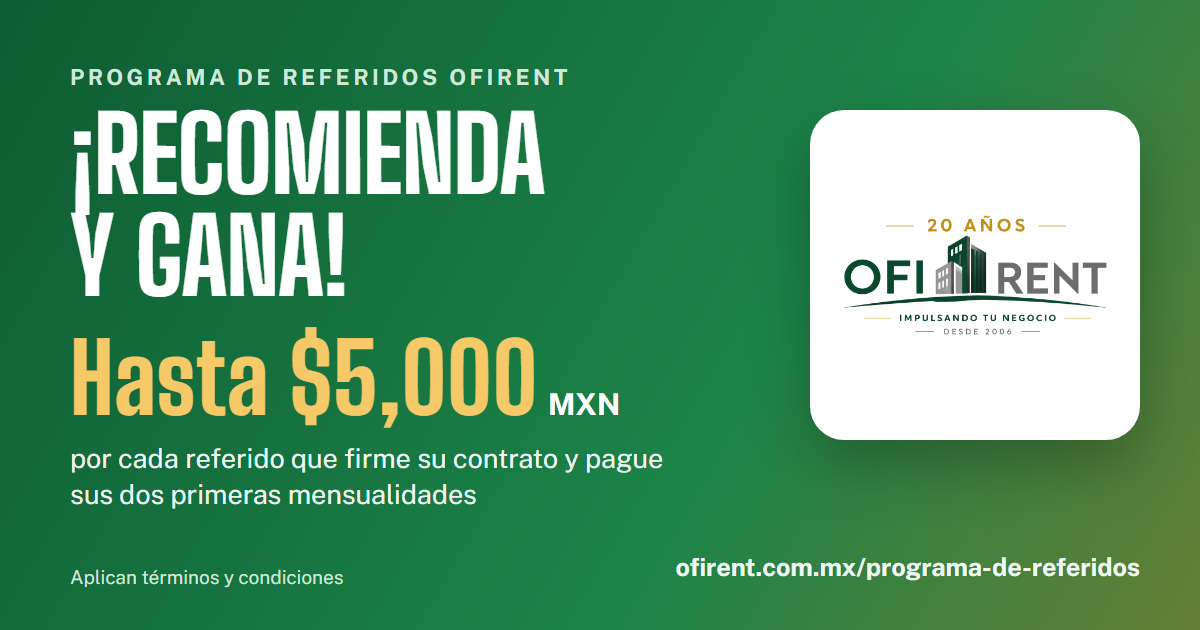
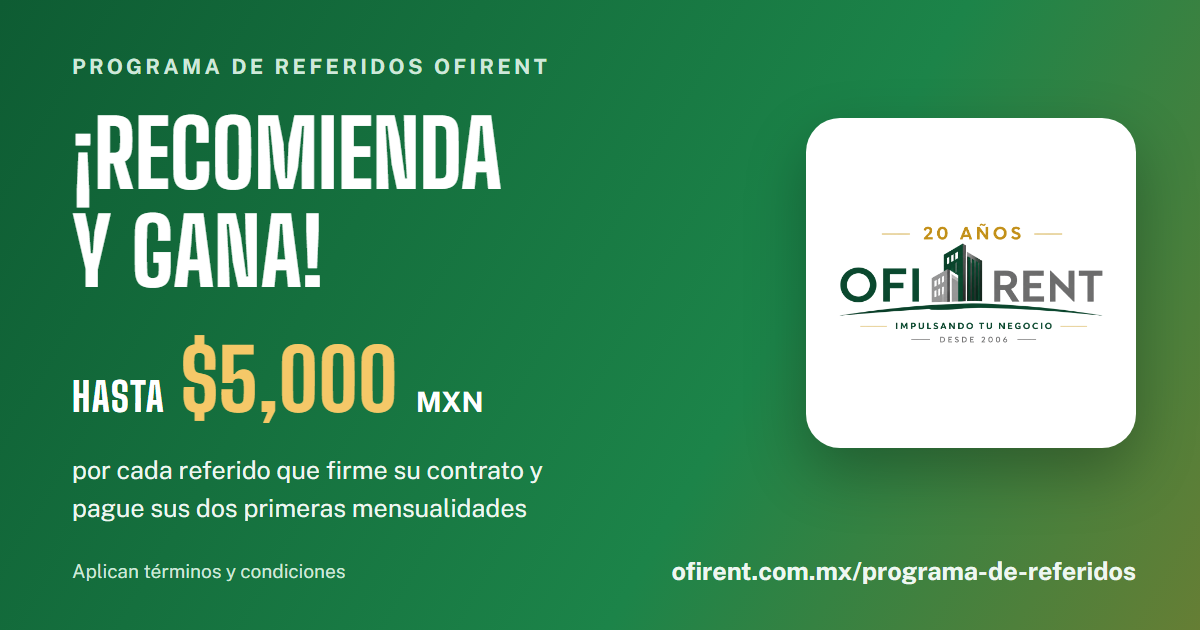
Referidos: brokers participan, varios servicios con tope, aviso de privacidad
- Terminos v1.1: corredores y brokers externos participan (siguen excluidos
  empleados, personal comercial, colaboradores y sus familiares directos);
  si el referido contrata mas de un servicio, el bono suma una mensualidad
  de cada uno con tope total de $5,000 (ejemplos con precios publicados).
- Pagina del programa: nota de varios servicios y de brokers.
- Aviso de privacidad: nueva seccion DECIMO CUARTO (programa de referidos:
  datos, finalidades, datos de la persona recomendada, encargados,
  conservacion); Cambios y Consentimiento pasan a DECIMO QUINTO y SEXTO;
  actualizacion 14 de octubre de 2026.
- Imagen para redes (og-referidos.png) con mas espacio entre bloques.
- CLAUDE.md: decisiones confirmadas (antes de IVA, 4 horas, 90 dias,
  brokers, varios servicios, aviso de privacidad).

diff --git a/ofirent-cdmx-site/aviso-de-privacidad/index.html b/ofirent-cdmx-site/aviso-de-privacidad/index.html
@@ -67,7 +67,7 @@
     <div class="legal-body">
       <p>Ofirent, con domicilio en calle Álvaro Obregón No. 270, casi esquina con Insurgentes, Colonia Condesa, C.P. 06140, Ciudad de México, y portal de internet <a href="https://www.ofirent.com.mx">www.ofirent.com.mx</a>, es responsable del tratamiento de los datos personales que sean recabados a través de dicho portal, formularios, medios electrónicos, comunicaciones y demás medios relacionados con la prestación de sus servicios.</p>
       <p>El presente Aviso de Privacidad se emite de conformidad con la Ley Federal de Protección de Datos Personales en Posesión de los Particulares vigente (la "LFPDPPP") y demás disposiciones aplicables en materia de protección de datos personales.</p>
-      <p>Ofirent reconoce la importancia de proteger la privacidad y los datos personales de sus clientes, prospectos, proveedores, colaboradores, representantes, usuarios del sitio web y demás personas con las que mantiene una relación comercial o jurídica. Por ello, el tratamiento de los datos personales se realizará de manera legítima, controlada e informada, atendiendo a los principios y deberes establecidos por la legislación aplicable.</p>
+      <p>Ofirent reconoce la importancia de proteger la privacidad y los datos personales de sus clientes, prospectos, proveedores, colaboradores, representantes, usuarios del sitio web, participantes del programa de referidos, personas recomendadas y demás personas con las que mantiene una relación comercial o jurídica. Por ello, el tratamiento de los datos personales se realizará de manera legítima, controlada e informada, atendiendo a los principios y deberes establecidos por la legislación aplicable.</p>
 
       <h2>PRIMERO. Datos personales sometidos a tratamiento</h2>
       <p>Para las finalidades descritas en el presente Aviso de Privacidad, Ofirent podrá recabar y tratar, de manera conjunta o separada, las siguientes categorías de datos personales, dependiendo de la naturaleza de la relación que mantenga con el titular:</p>
@@ -122,6 +122,7 @@
       <h2>CUARTO. Datos personales obtenidos de fuentes distintas al titular</h2>
       <p>Ofirent podrá obtener datos personales de personas que no sean clientes directos cuando dichos datos sean proporcionados por clientes, proveedores, representantes, socios comerciales, empresas relacionadas, autoridades o terceros vinculados con una operación o servicio.</p>
       <p>En estos casos, Ofirent tratará dichos datos exclusivamente para las finalidades relacionadas con la relación comercial, contractual, jurídica o profesional correspondiente y de conformidad con la legislación aplicable. Cuando resulte procedente, el presente Aviso de Privacidad estará disponible para dichos titulares a través de <a href="https://www.ofirent.com.mx">www.ofirent.com.mx</a>.</p>
+      <p>Esto incluye los datos de las personas que son recomendadas a Ofirent por un cliente o un tercero a través del programa de referidos, conforme a lo previsto en el apartado DÉCIMO CUARTO de este Aviso.</p>
 
       <h2>QUINTO. Ofirent como responsable y, en su caso, como encargado</h2>
       <p>Salvo que se establezca expresamente lo contrario en el contrato o documento correspondiente, Ofirent tratará los datos personales en su carácter de responsable.</p>
@@ -184,12 +185,42 @@
       <h2>DÉCIMO TERCERO. Autoridad competente</h2>
       <p>Si el titular considera que su derecho a la protección de sus datos personales ha sido vulnerado, podrá ejercer las acciones y presentar las denuncias o procedimientos que correspondan ante la autoridad competente en materia de protección de datos personales, de conformidad con la legislación vigente.</p>
 
-      <h2>DÉCIMO CUARTO. Cambios al Aviso de Privacidad</h2>
+      <h2>DÉCIMO CUARTO. Programa de referidos</h2>
+      <p>Ofirent opera un programa de referidos mediante el cual una persona (sea o no cliente) recomienda los servicios de Ofirent a otra persona o empresa y, si se cumplen las condiciones publicadas en los <a href="/programa-de-referidos/terminos/">términos y condiciones del programa</a>, recibe un bono. Este apartado aplica a quien participa recomendando y a la persona recomendada, y complementa el resto del presente Aviso.</p>
+
+      <h3>14.1 Datos que se recaban</h3>
+      <ul>
+        <li><strong>De quien recomienda:</strong> nombre y teléfono de contacto y, para pagar un bono, los datos bancarios y fiscales necesarios (por ejemplo, nombre o razón social, RFC, cuenta CLABE y constancia de situación fiscal o comprobante fiscal), que se solicitan al momento del pago.</li>
+        <li><strong>De la persona recomendada:</strong> nombre, teléfono y, cuando quien recomienda los proporciona, correo electrónico, empresa, tipo de espacio y zona de interés y comentarios.</li>
+        <li><strong>Datos técnicos de seguridad:</strong> una huella cifrada y no reversible de la conexión desde la que se envía el formulario, que sirve para limitar envíos abusivos. En el registro del programa no se conserva la dirección IP.</li>
+      </ul>
+
+      <h3>14.2 Finalidades</h3>
+      <ul>
+        <li>Registrar la recomendación, asignarle un folio y permitir su consulta de seguimiento.</li>
+        <li>Contactar a la persona recomendada para ofrecerle los servicios de Ofirent y verificar la recomendación.</li>
+        <li>Verificar que la recomendación cumple los términos del programa, incluida la revisión de registros duplicados, autorreferidos y personas que ya habían tenido contacto con Ofirent.</li>
+        <li>Calcular, aprobar y pagar el bono (por transferencia o como crédito), solicitar los comprobantes correspondientes y cumplir las obligaciones fiscales aplicables.</li>
+        <li>Aplicar el límite de recomendaciones por persona y otorgar los beneficios del programa, como la categoría de Embajador OfiRent.</li>
+        <li>Prevenir fraudes, registros simulados o acuerdos indebidos para obtener el bono.</li>
+      </ul>
+
+      <h3>14.3 Datos de la persona recomendada</h3>
+      <p>La persona recomendada no entrega sus datos directamente: los registra quien la recomienda, quien declara contar con su autorización para compartirlos con Ofirent. En el primer contacto, Ofirent le informará que fue recomendada y le dará a conocer este Aviso de Privacidad.</p>
+      <p>La persona recomendada puede pedir en cualquier momento que no se le contacte, o ejercer sus derechos de acceso, rectificación, cancelación y oposición, escribiendo a <a href="mailto:contacto@ofirent.com.mx">contacto@ofirent.com.mx</a>. Sus datos se usan para contactarla por la recomendación recibida y, salvo que se oponga, para las finalidades secundarias del apartado 3.2.</p>
+
+      <h3>14.4 Quién accede a los datos</h3>
+      <p>Tienen acceso al registro del programa el personal autorizado de Ofirent y los proveedores tecnológicos que lo operan como encargados: almacenamiento de registros, envío de correo electrónico y alojamiento del sitio (actualmente Airtable, Resend y Vercel), que pueden tratar datos en servidores ubicados fuera de México. Los datos no se comparten con otros participantes del programa: en la consulta de seguimiento, quien recomienda solo ve la etapa de su recomendación y el primer nombre de la persona recomendada.</p>
+
+      <h3>14.5 Conservación</h3>
+      <p>Los registros del programa se conservan mientras sea necesario para operarlo (incluida la verificación del límite de recomendaciones por periodo de 12 meses) y durante los plazos legales, fiscales y contables aplicables, conforme al apartado SÉPTIMO.</p>
+
+      <h2>DÉCIMO QUINTO. Cambios al Aviso de Privacidad</h2>
       <p>Ofirent podrá modificar o actualizar el presente Aviso de Privacidad cuando resulte necesario, incluyendo cambios derivados de modificaciones legales, regulatorias, operativas, comerciales o de las prácticas de privacidad de la Empresa.</p>
       <p>Las modificaciones serán comunicadas mediante su publicación en <a href="https://www.ofirent.com.mx">www.ofirent.com.mx</a> y/o mediante los medios de contacto disponibles para tal efecto.</p>
       <p>Se recomienda consultar periódicamente el presente Aviso de Privacidad para conocer cualquier actualización.</p>
 
-      <h2>DÉCIMO QUINTO. Consentimiento</h2>
+      <h2>DÉCIMO SEXTO. Consentimiento</h2>
       <p>Al proporcionar sus datos personales a Ofirent, utilizar el sitio web cuando corresponda, solicitar información, contratar servicios o establecer una relación comercial con la Empresa, el titular reconoce haber leído y comprendido el presente Aviso de Privacidad y, cuando sea legalmente necesario, manifiesta su consentimiento para el tratamiento de sus datos personales conforme a los términos aquí establecidos.</p>
       <p>Cuando se requiera consentimiento expreso para el tratamiento de datos personales sensibles o para determinadas transferencias o finalidades, Ofirent obtendrá dicho consentimiento mediante los mecanismos correspondientes.</p>
 
@@ -200,7 +231,7 @@
         <p><strong>Domicilio:</strong> Calle Álvaro Obregón No. 270, casi esquina con Insurgentes, Colonia Condesa, C.P. 06140, Ciudad de México.</p>
         <p><strong>Lugar de emisión:</strong> Ciudad de México</p>
         <p><strong>Fecha de emisión original:</strong> 15 de agosto de 2026</p>
-        <p style="margin-bottom:0;"><strong>Última actualización:</strong> 15 de agosto de 2026</p>
+        <p style="margin-bottom:0;"><strong>Última actualización:</strong> 14 de octubre de 2026</p>
       </div>
     </div>
   </div>

diff --git a/ofirent-cdmx-site/programa-de-referidos/terminos/index.html b/ofirent-cdmx-site/programa-de-referidos/terminos/index.html
@@ -61,13 +61,13 @@
     <a class="back-link" href="/programa-de-referidos/">← Programa de referidos</a>
     <div class="eyebrow">Programa de referidos</div>
     <h1 class="hero-title" style="font-size:clamp(28px,4vw,40px);">Términos y condiciones</h1>
-    <p class="tc-meta">Versión 1.0 · 14 de octubre de 2026</p>
+    <p class="tc-meta">Versión 1.1 · 14 de octubre de 2026</p>
 
     <div class="tc-box">
       <h2>En pocas palabras</h2>
       <ul>
         <li>Recomiendas a alguien que aún no es cliente de OfiRent y lo registras en este sitio.</li>
-        <li>Si esa persona firma su contrato y paga sus <strong>dos primeras mensualidades</strong>, recibes un bono igual a <strong>una mensualidad</strong> de lo que contrató, con tope de <strong>$5,000 MXN</strong>.</li>
+        <li>Si esa persona firma su contrato y paga sus <strong>dos primeras mensualidades</strong>, recibes un bono igual a <strong>una mensualidad</strong> de cada servicio que contrató, antes de IVA, con tope total de <strong>$5,000 MXN</strong>.</li>
         <li>Si ya eres cliente y eliges el bono como crédito en tu renta, recibes <strong>20% adicional</strong> (hasta $6,000 MXN).</li>
         <li>Máximo <strong>4 recomendaciones</strong> por persona. Con 2 recomendaciones cerradas eres <strong>Embajador OfiRent</strong>.</li>
         <li>Vigente del <strong>14 de octubre de 2026 al 14 de enero de 2027</strong>.</li>
@@ -86,7 +86,8 @@
     <p>El programa está vigente <strong>del 14 de octubre de 2026 al 14 de enero de 2027</strong>. Es un periodo de prueba: OfiRent lo evaluará cada mes y podrá extenderlo, ajustarlo o terminarlo. Cualquier cambio se publicará en esta página y <strong>no afectará a las recomendaciones registradas antes del cambio</strong>, que se rigen por los términos vigentes cuando se registraron.</p>
 
     <h2 class="tc-h">3. Quién puede participar</h2>
-    <p>Puede participar cualquier persona física mayor de 18 años, sea o no cliente de OfiRent. No pueden participar empleados, agentes comerciales ni colaboradores de OfiRent, ni sus familiares directos (cónyuge, padres, hijos y hermanos).</p>
+    <p>Puede participar cualquier persona física mayor de 18 años, sea o no cliente de OfiRent, incluidos los corredores inmobiliarios y brokers externos que no tengan relación laboral con OfiRent.</p>
+    <p>No pueden participar las personas que trabajan para OfiRent (empleados, personal comercial y colaboradores), ni sus familiares directos (cónyuge, padres, hijos y hermanos).</p>
 
     <h2 class="tc-h">4. Qué es una recomendación válida</h2>
     <p>Para que tu recomendación cuente, la persona o empresa que recomiendas (el "referido") debe cumplir todo lo siguiente:</p>
@@ -116,6 +117,8 @@
       </tbody>
     </table>
     <p>Los precios de lista pueden cambiar. Si tu referido contrata con descuento o promoción, el bono se calcula sobre la renta realmente pactada en su contrato.</p>
+    <p><strong>Si tu referido contrata más de un servicio</strong> (por ejemplo, una oficina virtual y un coworking), el bono es el equivalente a una mensualidad de cada servicio que contrató, sumadas, con un <strong>tope total de $5,000 MXN</strong> por referido. Cada servicio cuenta cuando se firma dentro de los 90 días naturales siguientes a tu registro y se pagan sus dos primeras mensualidades.</p>
+    <p>Por ejemplo: una oficina virtual de $1,299 y un coworking de $2,500 suman $3,799, y ese es tu bono. Una oficina virtual de $1,899 y una oficina privada de $6,500 suman $8,399, pero tu bono es de $5,000.</p>
 
     <h2 class="tc-h">8. Beneficio para clientes actuales</h2>
     <p>Si eres cliente activo de OfiRent (al corriente en tus pagos) y eliges recibir tu bono como <strong>crédito aplicado a tu renta o membresía</strong>, el crédito aumenta <strong>20%</strong>, hasta $6,000 MXN. Si prefieres transferencia, recibes el monto base. El crédito no es canjeable por efectivo.</p>

diff --git a/ofirent-cdmx-site/programa-de-referidos/index.html b/ofirent-cdmx-site/programa-de-referidos/index.html
@@ -185,7 +185,7 @@
           <tr><td>Oficina privada</td><td>hasta $5,000</td></tr>
         </tbody>
       </table>
-      <p class="oc-fine">Con precios de lista. El bono se calcula sobre la renta pactada en el contrato, antes de IVA.</p>
+      <p class="oc-fine">Con precios de lista. El bono se calcula sobre la renta pactada en el contrato, antes de IVA. Si tu referido contrata más de un servicio, se suma una mensualidad de cada uno, hasta $5,000 en total.</p>
     </aside>
   </div>
 </section>
@@ -232,7 +232,7 @@
       </div>
       <div class="ref-benefit">
         <h3>Si aún no eres cliente</h3>
-        <p>Recibe tu bono por <strong>transferencia bancaria</strong>. Solo necesitas registrar tu recomendación en esta página, no hace falta tener cuenta.</p>
+        <p>Recibe tu bono por <strong>transferencia bancaria</strong>. Solo necesitas registrar tu recomendación en esta página, no hace falta tener cuenta. Si eres corredor o broker externo, también puedes participar.</p>
       </div>
       <div class="ref-benefit feature">
         <h3>Embajador OfiRent</h3>

diff --git a/CLAUDE.md b/CLAUDE.md
@@ -14,7 +14,7 @@ Este repo se trabaja en paralelo desde más de una sesión de Claude Code (local
 ### Decisiones confirmadas con el cliente
 - Membresía Oro de coworking (incluye domicilio fiscal/comercial): contrato mínimo **6 meses**, no 1 año.
 - Teléfono/WhatsApp por marca (confirmado por el usuario, 2026-09-28): **OfiRent CDMX = 55 3200 9907**, **Torre Altius = 55 3148 5707**. No mezclar. Los posts del blog de OfiRent que hablan de Querétaro/Altius (19 posts con Querétaro, Jurica o Juriquilla en título o slug) llevan el número de Altius en el topbar y el pie; todos los demás posts y páginas llevan el de OfiRent. Los posts nuevos sobre Querétaro deben seguir la misma regla.
-- **Programa de referidos de OfiRent CDMX** (aprobado por la Dirección, 2026-10-14): el bono equivale a **una mensualidad de la renta pactada del referido (antes de IVA), con tope de $5,000 MXN**, y se entrega cuando el referido firma contrato y **paga sus dos primeras mensualidades**. En marketing se dice "hasta $5,000 MXN" y los términos aclaran que es un tope. **Vigencia: del 14 de octubre de 2026 al 14 de enero de 2027** (periodo de prueba, se evalúa cada mes); no hay un presupuesto en pesos, es lo que se genere en esos 3 meses. **Clientes actuales** que elijan el bono como crédito en su renta reciben **20% adicional** (hasta $6,000). **Embajador OfiRent**: por cada 2 recomendaciones cerradas, 4 horas de sala de juntas sin costo (las 4 horas y los 90 días de uso son propuesta mía, falta que la Dirección las confirme). **Quien verifica y paga cada bono: Nicolás Altamirano.** Páginas: `/programa-de-referidos/`, `/programa-de-referidos/terminos/` y `/programa-de-referidos/seguimiento/`. Cada recomendación se guarda en Airtable (tabla "Referidos") y se avisa por correo a **contacto@ofirent.com.mx** (siempre fijo en el servidor, nunca viene del formulario). Los estados "Contrato firmado" y "Bono aplicado" solo los cambia el personal de OfiRent a mano en Airtable. Torre Altius tendrá su propio programa más adelante, no es parte de este.
+- **Programa de referidos de OfiRent CDMX** (aprobado por la Dirección, 2026-10-14): el bono equivale a **una mensualidad de la renta pactada del referido (antes de IVA), con tope de $5,000 MXN**, y se entrega cuando el referido firma contrato y **paga sus dos primeras mensualidades**. En marketing se dice "hasta $5,000 MXN" y los términos aclaran que es un tope. **Vigencia: del 14 de octubre de 2026 al 14 de enero de 2027** (periodo de prueba, se evalúa cada mes); no hay un presupuesto en pesos, es lo que se genere en esos 3 meses. **Clientes actuales** que elijan el bono como crédito en su renta reciben **20% adicional** (hasta $6,000). **Embajador OfiRent**: por cada 2 recomendaciones cerradas, 4 horas de sala de juntas sin costo (4 horas, 90 días de uso, firma dentro de 90 días del registro y pago en 30 días naturales confirmados por el usuario, 2026-10-14). La mensualidad es **antes de IVA**. **Corredores y brokers externos sí participan** (si no trabajan para OfiRent ni tienen otro acuerdo de comisión); siguen excluidos empleados, personal comercial, colaboradores y sus familiares directos. **Si el referido contrata más de un servicio**, el bono es una mensualidad de cada servicio, sumadas, con tope total de $5,000 (y $6,000 con el +20% en crédito). El **aviso de privacidad** (`aviso-de-privacidad/`) incluye desde 2026-10-14 la sección DÉCIMO CUARTO del programa de referidos; en el primer contacto con el referido se le informa que fue recomendado y se le da el aviso. **Quien verifica y paga cada bono: Nicolás Altamirano.** Páginas: `/programa-de-referidos/`, `/programa-de-referidos/terminos/` y `/programa-de-referidos/seguimiento/`. Cada recomendación se guarda en Airtable (tabla "Referidos") y se avisa por correo a **contacto@ofirent.com.mx** (siempre fijo en el servidor, nunca viene del formulario). Los estados "Contrato firmado" y "Bono aplicado" solo los cambia el personal de OfiRent a mano en Airtable. Torre Altius tendrá su propio programa más adelante, no es parte de este.
 - **Tope de recomendaciones por persona** (pedido por el usuario, 2026-10-14): cada teléfono de quien recomienda puede registrar **máximo 4 recomendaciones** en cualquier periodo de 12 meses, sin contar las que el personal marque "No procede". La cifra vive en `assets/referidos/validation.js` (`PROGRAM`) y la usan la página y el servidor. Si un referido ya fue registrado por otra persona, o ya estaba en la tabla Leads, se guarda igual pero con una línea `ALERTA:` al inicio de `Detalles` y una caja "Revisar antes de pagar" en el correo. Regla de los términos: gana el primer registro y no cuentan prospectos con contacto en los últimos 12 meses.
 
 ## Qué hace cada sitio
